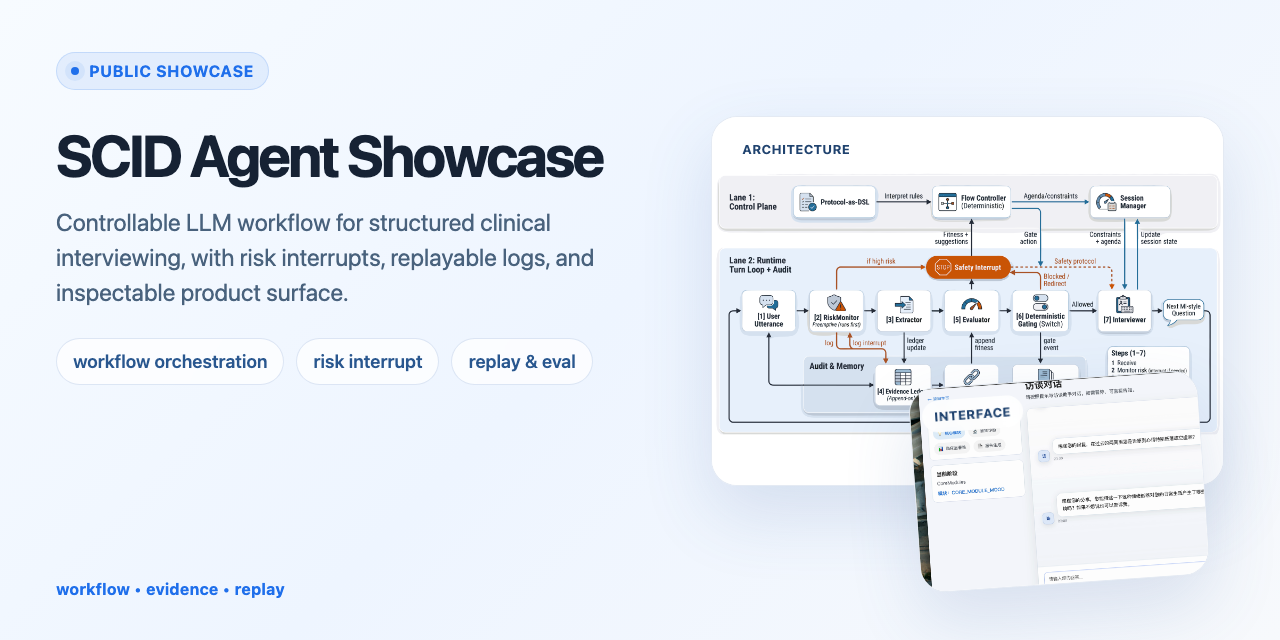
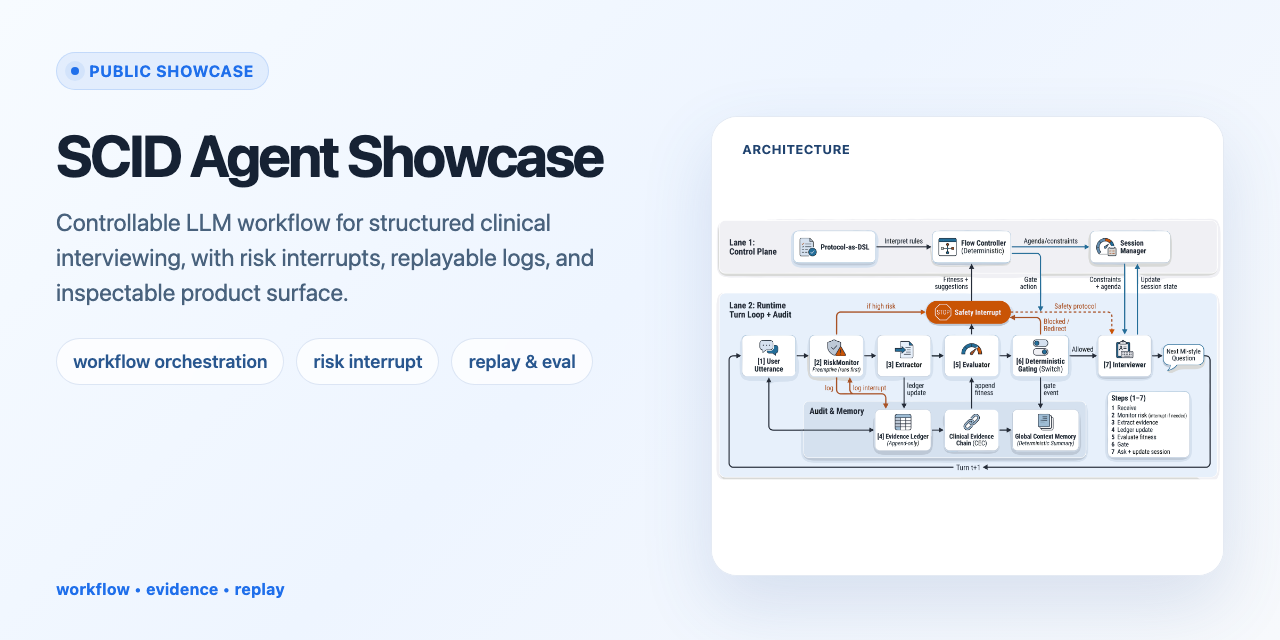
Simplify social preview artwork

Changed region(s): [[0.5312, 0.2812, 0.9688, 0.9062], [0.8125, 0.875, 0.9062, 0.9375]]

diff --git a/README.md b/README.md
@@ -4,7 +4,7 @@ A controllable LLM-agent workflow for high-risk structured clinical interviewing
 
 > Public showcase only. This repository is not a clinical diagnostic tool or medical device.
 
-![SCID architecture overview](assets/readme/architecture.png)
+![SCID showcase overview](assets/social-preview.png)
 
 This repository highlights:
 - Flow-controlled orchestration for structured interview phases and module progression
